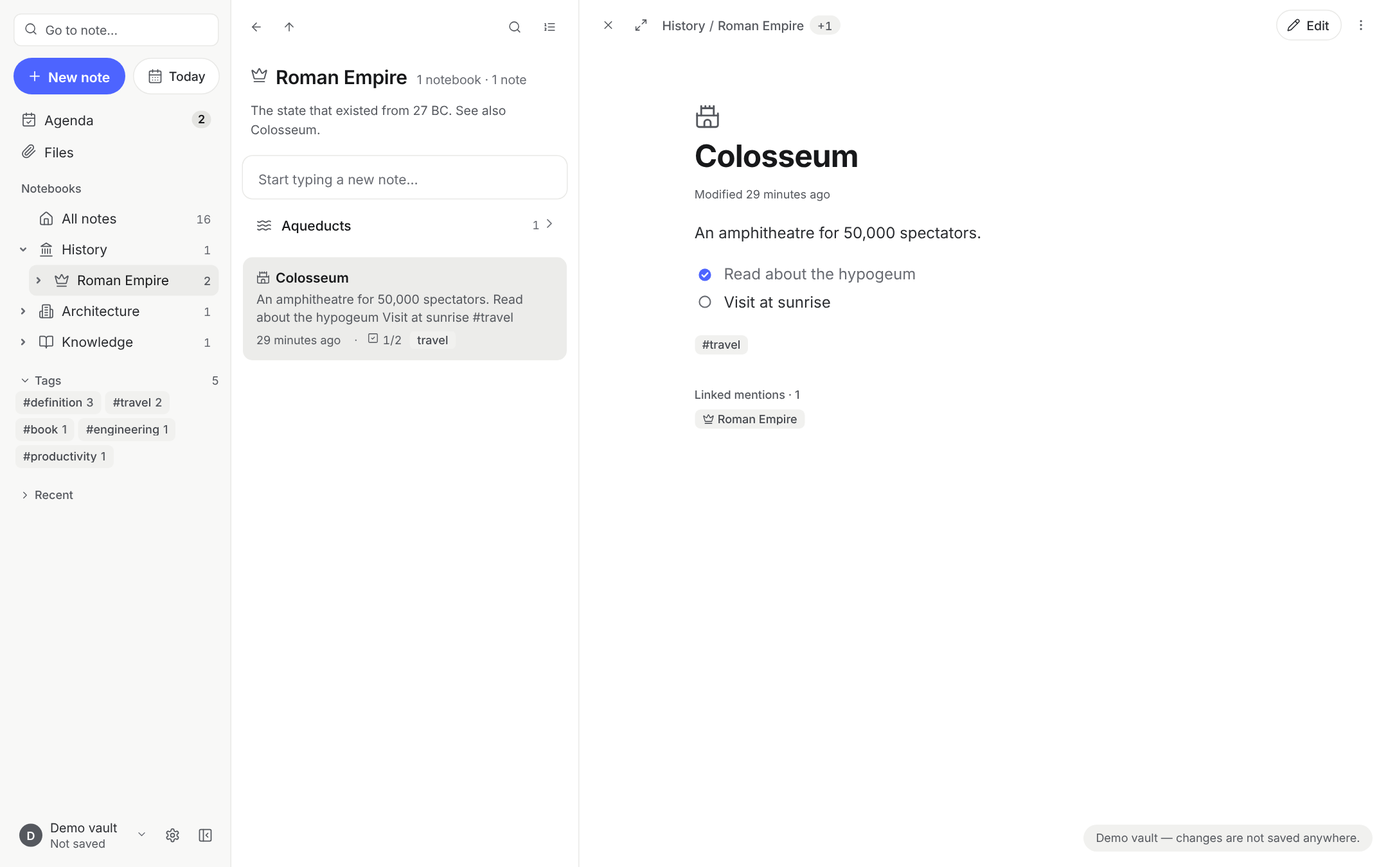
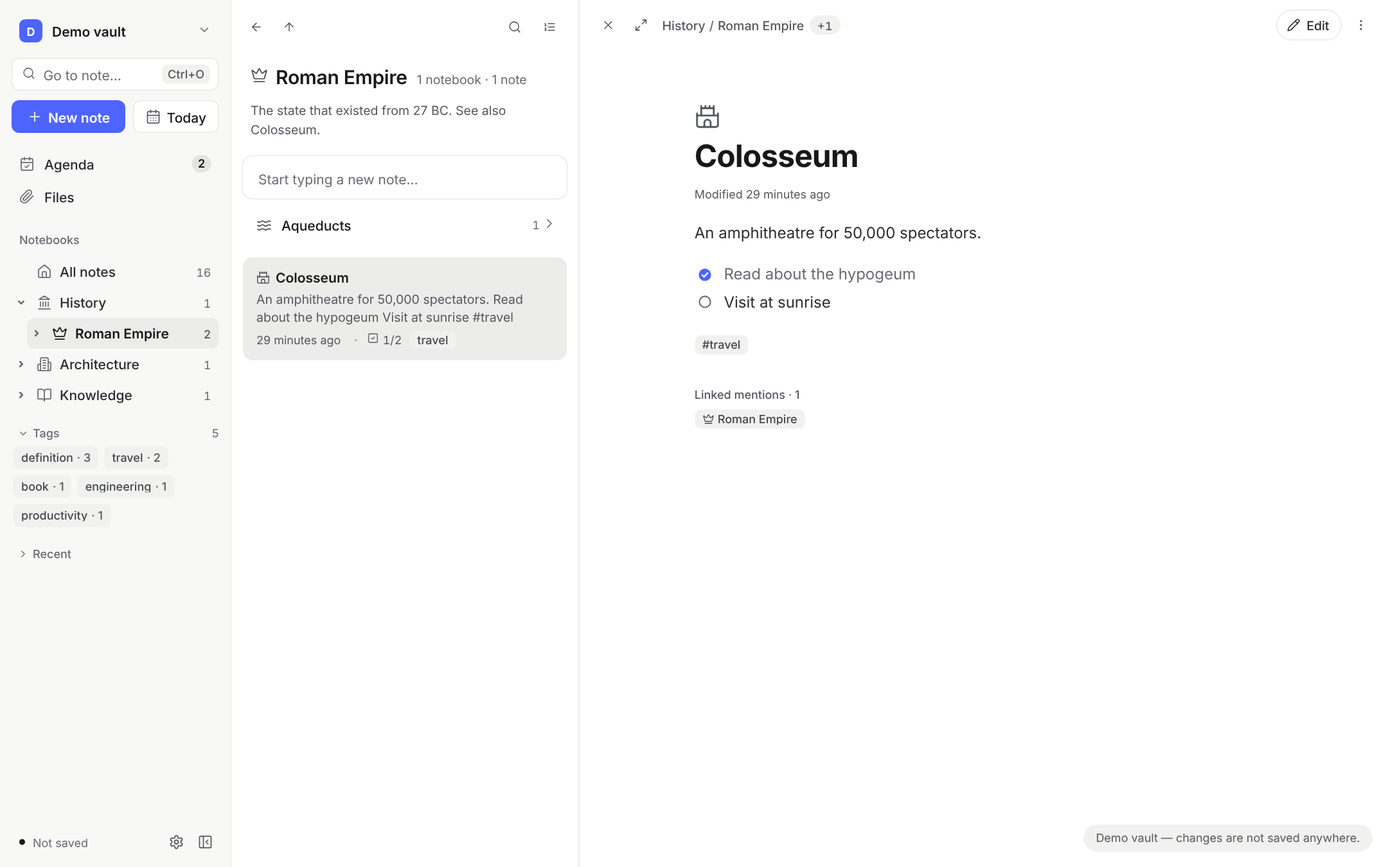
Restyle stage 4: the sidebar
The vault heads the sidebar: an accent square with its letter, its name
and its menu. Go to note shows its key (Ctrl+O, hidden without a
pointer); New note fills the row beside Today at 34px with the controls'
corner. Places and notebooks read at 500 with quiet icons, the current
row at 600 in the ink; section labels are faint. Tags read
"travel · 2". The vault's state (Not saved) moves to the foot with a
dot. The UI-27 test expects the vault first, then the three controls.

Claude-Session: https://claude.ai/code/session_01FMk1W3xjGAnUwDM3D7HQLZ

diff --git a/web/src/css/app.css b/web/src/css/app.css
@@ -15,64 +15,70 @@
 .sn-resizer.is-editor { grid-column: 4; grid-row: 2; flex-basis: 8px; }
 
 /* ---------- Sidebar */
-.sb-head { display: flex; flex-direction: column; gap: var(--sp-12); padding: var(--sp-14) var(--sp-12) var(--sp-10) var(--sp-14); }
-.sb-foot { display: flex; align-items: center; gap: var(--sp-2); padding: var(--sp-8) var(--sp-10) var(--sp-12) var(--sp-12); }
-.sb-foot button.sb-account { flex: 1 1 auto; min-width: 0; width: auto; }
-button.clickable-icon.sb-foot-btn { flex: none; width: 32px; height: var(--ctl-l); padding: 0; border-radius: var(--r-s); color: var(--muted); }
+/* the sidebar, top to bottom: the vault, Go to note, New note and Today; the app's places; the notebooks and tags;
+   the vault's state, settings and folding at the foot (restyle RS-8 to RS-19) */
+.sb-head { display: flex; flex-direction: column; gap: var(--sp-10); padding: var(--sp-14) var(--sp-12) var(--sp-16); }
+.sb-foot { display: flex; align-items: center; gap: var(--sp-2); padding: var(--sp-8) var(--sp-12) var(--sp-12); }
+.sb-status { flex: 1 1 auto; min-width: 0; display: flex; align-items: center; gap: var(--sp-8); padding-inline-start: var(--sp-8); color: var(--faint); font-size: var(--fs-sm); }
+.sb-status-text { min-width: 0; overflow: hidden; text-overflow: ellipsis; white-space: nowrap; }
+.sb-dot { flex: none; width: 6px; height: 6px; border-radius: 50%; background: var(--faint); }
+.sb-status.is-unsaved .sb-dot { background: var(--ink); }
+button.clickable-icon.sb-foot-btn { flex: none; width: var(--ctl-m); height: var(--ctl-m); padding: 0; border-radius: var(--r-s); color: var(--muted); }
 button.clickable-icon.sb-foot-btn:hover { background: var(--hover-bg); color: var(--fg); }
 .sb-foot-btn svg.svg-icon { width: var(--icon-m); height: var(--icon-m); }
 @media (max-width: 820px) { .sb-collapse { display: none; } } /* the drawer closes on the grey around it */
 /* The sidebar's places: the agenda, Files and sync, as rows like the tree's, each with its count or state at the right */
-.sb-nav { display: flex; flex-direction: column; gap: 1px; padding: 0 var(--sp-12) var(--sp-6) var(--sp-14); }
-.sb-nav button.sn-btn { justify-content: flex-start; gap: var(--sp-8); width: 100%; height: var(--ctl-l); padding: 0 var(--sp-8); border: 0; border-radius: var(--r-s);
-  background: transparent; color: var(--fg); font-size: var(--fs-md); font-weight: var(--fw-regular); }
+.sb-nav { display: flex; flex-direction: column; gap: var(--sp-2); padding: 0 var(--sp-12) var(--sp-12); }
+.sb-nav button.sn-btn { justify-content: flex-start; gap: var(--sp-10); width: 100%; height: var(--ctl-l); padding: 0 var(--sp-8); border: 0; border-radius: var(--r-s);
+  background: transparent; color: var(--fg); font-size: var(--fs-md); font-weight: var(--fw-medium); }
 .sb-nav button.sn-btn:hover { background: var(--hover-bg); }
-.sb-nav button.sn-btn.is-active { background: var(--sel); color: var(--ink); }
-.sb-nav button.sn-btn svg { width: var(--icon-m); height: var(--icon-m); color: var(--muted); }
+.sb-nav button.sn-btn.is-active { background: var(--sel); color: var(--ink); font-weight: var(--fw-semibold); }
+.sb-nav button.sn-btn svg { width: var(--icon-m); height: var(--icon-m); color: var(--faint); }
+.sb-nav button.sn-btn.is-active svg { color: var(--ink); }
 /* the sidebar's buttons keep their labels at every width (outweighing .sn-btn .wb-label in frame.css) */
 .sb-nav button.sn-btn .wb-label { display: inline; min-width: 0; overflow: hidden; text-overflow: ellipsis; }
 .sb-nav .wb-count { margin-left: auto; }
 .sb-nav button.sn-btn.wb-sync { max-width: none; }
 .sb-nav .wb-sync[hidden] { display: none; }
-/* Search fields share one look: 34px, white on the grey with a hairline border, a 14px icon, the accent ring on focus
+/* Search fields share one look: white with a hairline border, a 14px icon, the accent ring on focus
    (the sidebar's launcher, the board's filter, Files and Settings) */
 :is(button.sb-search, .sn-search, input.sn-set-search, input.fv-search) {
   height: var(--ctl-field); border: 1px solid var(--line); border-radius: var(--r-s); background: var(--win); color: var(--fg); font-size: var(--fs-ui);
 }
 :is(.sn-search:focus-within, input.sn-set-search:focus, input.fv-search:focus) { border-color: var(--accent); box-shadow: var(--ring); outline: none; }
-button.sb-search { justify-content: flex-start; gap: var(--sp-8); width: 100%; padding: 0 var(--sp-12) 0 var(--sp-10); font-weight: var(--fw-regular); cursor: text; }
-button.sb-search { color: var(--muted); }
-button.sb-search:hover { border-color: color-mix(in srgb, var(--faint) 55%, var(--line)); background: var(--win); }
+button.sb-search { justify-content: flex-start; gap: var(--sp-8); width: 100%; padding: 0 var(--sp-8) 0 var(--sp-10); color: var(--faint); font-size: var(--fs-md); font-weight: var(--fw-regular); cursor: text; }
+button.sb-search .wb-label { flex: 1 1 auto; min-width: 0; overflow: hidden; text-overflow: ellipsis; text-align: left; }
+button.sb-search:hover { border-color: var(--line-hover); background: var(--win); }
+/* the key that opens it, on a quiet plate; not on screens without a pointer to hover (UI-11) */
+.sb-key { flex: none; padding: 1px var(--sp-6); border-radius: var(--r-xs); background: var(--panel); color: var(--muted); font-family: var(--font-ui); font-size: var(--fs-sm); font-weight: var(--fw-medium); line-height: var(--lh-ui); }
+@media (hover: none) { .sb-key { display: none; } }
 button.sb-search svg, .sn-search-icon svg, .fv-search-icon svg { width: var(--icon-s); height: var(--icon-s); }
 .fv-search-wrap { position: relative; flex: 1 1 auto; min-width: 0; display: flex; }
 .fv-search-icon { position: absolute; left: 10px; top: 50%; transform: translateY(-50%); display: inline-flex; color: var(--muted); pointer-events: none; }
 input.fv-search { width: 100%; padding: 0 var(--sp-10) 0 30px; }
 .sb-actions { display: flex; align-items: center; gap: var(--sp-8); }
+/* New note fills the row, Today beside it: one height, the controls' corner */
 button.sn-btn.sb-new, :where(.sn-welcome-actions) button.sn-btn.is-primary {
-  height: 38px; padding: 0 var(--sp-16) 0 var(--sp-14); border-radius: var(--r-pill); background: var(--cta); color: var(--on-accent);
+  height: var(--ctl-field); padding: 0 var(--sp-12); border-radius: var(--r-s); background: var(--cta); color: var(--on-accent);
   font-size: var(--fs-md); font-weight: var(--fw-semibold); gap: var(--sp-6);
 }
+button.sn-btn.sb-new { flex: 1 1 auto; min-width: 0; justify-content: center; }
 button.sn-btn.sb-new:hover, :where(.sn-welcome-actions) button.sn-btn.is-primary:hover { background: var(--cta-hover); opacity: 1; }
 button.sn-btn.sb-new svg { width: var(--icon-m); height: var(--icon-m); }
-button.clickable-icon.sb-round { width: 38px; height: 38px; padding: 0; border: 1px solid var(--line); border-radius: 50%; background: var(--win); }
-/* Today, beside New note: a labelled button, quieter than New note */
-button.sn-btn.sb-today { height: 38px; padding: 0 var(--sp-14); border: 1px solid var(--line); border-radius: var(--r-pill); background: var(--win); color: var(--fg); font-weight: var(--fw-medium); }
+button.sn-btn.sb-today { flex: none; height: var(--ctl-field); padding: 0 var(--sp-12); border: 1px solid var(--line); border-radius: var(--r-s); background: var(--win); color: var(--ink); font-size: var(--fs-md); font-weight: var(--fw-medium); }
 button.sn-btn.sb-today:hover { background: var(--hover-bg); }
 button.sn-btn.sb-today svg { width: var(--icon-m); height: var(--icon-m); color: var(--muted); }
 .sb-today .wb-label { display: inline; }
 .sn-keys-or { display: inline-flex; align-items: center; gap: var(--sp-6); }
 .sn-keys-or .sn-or { color: var(--faint); font-size: var(--fs-sm); }
-button.clickable-icon.sb-round:hover { background: var(--hover-bg); color: var(--fg); }
-button.clickable-icon.sb-round svg { width: var(--icon-m); height: var(--icon-m); }
-button.sb-account { justify-content: flex-start; gap: var(--sp-8); width: 100%; height: 36px; padding: 0 var(--sp-8);
-  border: 0; border-radius: var(--r-s); background: transparent; font-weight: var(--fw-regular);
+/* the vault: a square of the accent with its first letter, its name, a chevron to its menu */
+button.sb-account { justify-content: flex-start; gap: var(--sp-10); width: 100%; height: 36px; padding: 0 var(--sp-8);
+  border: 0; border-radius: var(--r-s); background: transparent; color: var(--ink); font-size: var(--fs-md); font-weight: var(--fw-semibold);
 }
 button.sb-account:hover { background: var(--hover-bg); }
-.sb-avatar { flex: none; display: inline-flex; align-items: center; justify-content: center; width: 24px; height: 24px; border-radius: 50%; background: var(--muted); color: var(--win); font-size: var(--fs-sm); font-weight: var(--fw-semibold); }
-.sb-account-name { flex: 1; min-width: 0; display: flex; flex-direction: column; text-align: left; line-height: var(--lh-tight); }
-.sb-account-name > * { overflow: hidden; text-overflow: ellipsis; white-space: nowrap; }
-.sb-account-note { color: var(--muted); font-size: var(--fs-sm); font-weight: var(--fw-regular); }
-button.sb-account.has-note { height: 42px; }
+.sb-avatar { flex: none; display: inline-flex; align-items: center; justify-content: center; width: 24px; height: 24px; border-radius: var(--r-xs); background: var(--cta); color: var(--on-accent); font-size: var(--fs-sm); font-weight: var(--fw-bold); }
+.sb-account-name { flex: 1; min-width: 0; overflow: hidden; text-overflow: ellipsis; white-space: nowrap; text-align: left; }
+button.sb-account .wb-caret svg { width: var(--icon-s); height: var(--icon-s); color: var(--faint); }
 
 /* the tree's tools on its "Cards" heading: they show with the pointer over the sidebar or the focus in them; touch shows them always */
 .sn-tree-section.has-tools { display: flex; align-items: center; gap: var(--sp-4); min-height: 24px; }
@@ -83,18 +89,18 @@ button.sb-account.has-note { height: 42px; }
 .sn-sec-tools .clickable-icon:hover { background: var(--hover-bg); color: var(--fg); }
 .sn-sec-tools .clickable-icon svg { width: var(--icon-s); height: var(--icon-s); }
 .sn-tree-section, .sn-tree-section:first-child {
-  margin: var(--sp-16) 0 var(--sp-4); padding-left: var(--sp-8); font-size: var(--fs-sm); font-weight: var(--fw-medium); color: var(--muted);
+  margin: var(--sp-16) 0 var(--sp-6); padding-left: var(--sp-8); font-size: var(--fs-sm); font-weight: var(--fw-medium); color: var(--faint);
 }
 .sn-tree-section:first-child { margin-top: var(--sp-4); }
 .sn-outline .tree-item-self.sn-tree-row.is-active { background: var(--sel); }
 /* the keyboard's place in the tree: a ring on the item's row, not around its whole branch (spec A11Y-2) */
 .sn-aria-tree [role=treeitem] { outline: none; }
 .sn-aria-tree [role=treeitem]:focus-visible > .sn-tree-row { box-shadow: var(--ring-inset); }
-.sn-outline .tree-item-self.sn-tree-row.is-active .sn-tree-label { color: var(--ink); }
+.sn-outline .tree-item-self.sn-tree-row.is-active :is(.sn-tree-label, .sn-tree-icon) { color: var(--ink); }
+.sn-outline .tree-item-self.sn-tree-row.is-active .sn-tree-label { font-weight: var(--fw-semibold); }
 /* the notebook the open note sits in, when the list beside it shows another place (and the open note's Recent row): a quiet mark, not a second selection */
 .sn-outline .sn-tree-row:is(.is-holding, .is-editing):not(.is-active) :is(.sn-tree-label, .sn-tree-icon) { color: var(--ink); }
-.sn-outline .sn-tree-row:is(.is-holding, .is-editing):not(.is-active) .sn-tree-label { font-weight: var(--fw-medium); }
-.sn-tree-row .sn-tree-label { font-weight: var(--fw-regular); }
+.sn-tree-row .sn-tree-label { font-weight: var(--fw-medium); }
 .sn-tree-icon svg { width: var(--icon-m); height: var(--icon-m); }
 .tree-item-flair { font-size: var(--fs-sm); color: var(--faint); }
 /* on a hovered or current row's grey, the counts and times step up to --muted to stay readable */

diff --git a/web/src/js/ui/shell.js b/web/src/js/ui/shell.js
@@ -168,22 +168,25 @@ function renderAll() {
   // there is no top bar: search, the new-card button, the agenda, Files, sync, settings and the vault live in the sidebar,
   // and each view's own bar opens the sidebar when it is closed (sideToggle)
   // finding a note by its name; searching the text is the list's own (its magnifier, Ctrl+F)
-  const search = h("button", { cls: "sb-search", type: "button", title: t("goToNote") + " · Ctrl+O" }, ic("", "search"), h("span", { text: t("goToNote") }));
+  const search = h("button", { cls: "sb-search", type: "button", title: t("goToNote") + " · " + keyText("Ctrl+O") }, ic("", "search"), h("span", { cls: "wb-label", text: t("goToNote") }),
+    h("kbd", { cls: "sb-key", "aria-hidden": "true", text: keyText("Ctrl+O") }));
   search.addEventListener("click", () => quickOpen());
-  const sideHead = h("div", { cls: "sb-head" }, search,
-    h("div", { cls: "sb-actions" },
-      wbBtn("plus", t("newShort"), newCard, "sb-new"),
-      // today's note, by name; the command palette is Ctrl+P and the vault's menu below
-      wbBtn("calendar-days", t("todayShort"), () => openToday(), "sb-today")));
   // a demo or a copy says so under its name for as long as it is open (the toast shows it only once)
   const standing = defaultEcho();
   const note = vault.fs.kind === "demo" ? t("demoShort") : vault.fs.kind === "copy" ? t("copyShort") : "";
-  const account = h("button", { cls: "sb-account" + (note ? " has-note" : ""), type: "button", title: standing ? vault.fs.name + " — " + standing : vault.fs.name },
+  // the vault heads the sidebar (restyle RS-8); its state ("Not saved") sits at the foot (RS-18)
+  const account = h("button", { cls: "sb-account", type: "button", title: standing ? vault.fs.name + " — " + standing : vault.fs.name },
     h("span", { cls: "sb-avatar", text: (vault.fs.name || "S").trim().charAt(0).toUpperCase() }),
-    h("span", { cls: "sb-account-name" }, h("span", { text: vault.fs.name }), note ? h("small", { cls: "sb-account-note", text: note }) : null), ic("wb-caret", "chevron-down"));
+    h("span", { cls: "sb-account-name", text: vault.fs.name }), ic("wb-caret", "chevron-down"));
   account.addEventListener("click", vaultMenu);
+  const sideHead = h("div", { cls: "sb-head" }, account, search,
+    h("div", { cls: "sb-actions" },
+      wbBtn("plus", t("newShort"), newCard, "sb-new"),
+      // today's note, by name; the command palette is Ctrl+P and the vault's menu above
+      wbBtn("calendar-days", t("todayShort"), () => openToday(), "sb-today")));
   const sideNav = h("nav", { cls: "sb-nav", "aria-label": t("tabbar") }, tasksButton(), filesButton(), syncButton());
-  const foot = h("div", { cls: "sb-foot" }, account,
+  const status = h("div", { cls: "sb-status" + (note ? " is-unsaved" : "") }, note ? h("span", { cls: "sb-dot", "aria-hidden": "true" }) : null, note ? h("span", { cls: "sb-status-text", text: note }) : null);
+  const foot = h("div", { cls: "sb-foot" }, status,
     iconBtn("settings", t("settings"), () => settingsModal(), "sb-foot-btn"),
     iconBtn("panel-left-close", t("toggleSidebar"), () => setSide(false), "sb-foot-btn sb-collapse"));
   const side = h("div", { cls: "sn-side" }, sideHead, sideNav, h("div", { cls: "sn-outline", id: "tree" }), foot);

diff --git a/web/src/css/board.css b/web/src/css/board.css
@@ -81,7 +81,7 @@
 /* Branch blocks when grouped */
 
 /* ---------- Sidebar tree */
-.sn-tree { flex: 1 1 auto; overflow-y: auto; padding: 0 var(--sp-12) var(--sp-16) var(--sp-14); }
+.sn-tree { flex: 1 1 auto; overflow-y: auto; padding: 0 var(--sp-12) var(--sp-16); }
 .sn-tree-empty { padding: var(--sp-12); font-size: var(--fs-ui); color: var(--muted); }
 .sn-outline .tree-item-self.sn-tree-row { align-items: center; user-select: none; min-height: 32px; padding: var(--sp-4) var(--sp-8) var(--sp-4) var(--sp-2); border-radius: var(--r-s); font-size: var(--fs-md); gap: var(--sp-8); }
 .sn-outline .sn-tree-toggle {
@@ -92,7 +92,7 @@
 .sn-outline .sn-tree-toggle:hover { color: var(--muted); }
 .sn-outline .sn-tree-toggle svg { width: 10px; height: 10px; stroke-width: 4px; transition: transform var(--dur-1) var(--ease); }
 .sn-outline .sn-tree-row:not(.is-open) .sn-tree-toggle svg { transform: rotate(-90deg); }
-.sn-tree-icon { flex: 0 0 auto; display: inline-flex; color: var(--muted); }
+.sn-tree-icon { flex: 0 0 auto; display: inline-flex; color: var(--faint); }
 .sn-outline .sn-tree-label { overflow: hidden; text-overflow: ellipsis; white-space: nowrap; }
 .sn-outline .tree-item-flair-outer { flex: 0 0 auto; }
 .sn-tree-count { font-variant-numeric: tabular-nums; }

diff --git a/web/src/css/writing.css b/web/src/css/writing.css
@@ -88,8 +88,9 @@ button.sn-table-add-row:hover, button.sn-table-add-col:hover { background: color
 .sn-sec-caret svg { width: var(--icon-xs); height: var(--icon-xs); transition: transform var(--dur-1) var(--ease); }
 .sn-tree-section.is-toggle:not(.is-open) .sn-sec-caret svg { transform: rotate(-90deg); }
 .sn-sec-count { margin-left: auto; font-weight: var(--fw-regular); }
-.sn-tag-cloud { display: flex; flex-wrap: wrap; gap: var(--sp-4); padding: 0 var(--sp-2) var(--sp-4); }
-.sn-tag-cloud .sn-chip .n { color: var(--muted); font-size: var(--fs-sm); } /* on the pill's --panel, where --faint is too light */
+/* the sidebar's tags: "travel · 2" on a plain chip (restyle RS-17) */
+.sn-tag-cloud { display: flex; flex-wrap: wrap; gap: var(--sp-6); padding: 0 var(--sp-2) var(--sp-4); }
+.sn-tag-cloud .sn-chip .n { color: var(--muted); font-size: var(--fs-sm); } /* on the chip's --panel, where --faint is too light */
 
 /* Unlinked mentions */
 .sn-unlinked { display: flex; flex-direction: column; gap: var(--sp-4); margin-bottom: var(--sp-12); }

diff --git a/web/src/js/ui/completion.js b/web/src/js/ui/completion.js
@@ -412,7 +412,7 @@ export function tagsSection(box) {
   const wrap = h("div", { cls: "sn-tag-cloud" });
   for (const [tg, n] of [...counts].sort((a, b) => b[1] - a[1] || a[0].localeCompare(b[0])).slice(0, 40)) {
     const on = board.tagView === tg;
-    const b = h("button", { cls: "sn-chip" + (on ? " is-accent" : ""), type: "button", title: `#${tg} · ${n}` }, h("span", { text: "#" + tg }), h("span", { cls: "n", text: String(n) }));
+    const b = h("button", { cls: "sn-chip" + (on ? " is-accent" : ""), type: "button", title: `#${tg} · ${n}` }, h("span", { text: tg }), h("span", { cls: "n", text: "· " + n }));
     b.addEventListener("click", () => { if (on) goBack(); else openTagView(tg); });
     wrap.append(b);
   }

diff --git a/docs/restyle-specification.md b/docs/restyle-specification.md
@@ -144,18 +144,18 @@
 
 | № | Требование | Проверка | Статус |
 |---|---|---|---|
-| RS-8 | Строка хранилища (`button.sb-account`, `shell.js:182`) переезжает из низа панели в её верх, первой в `.sb-head`. Состав: аватар, название (14 px, 600, `--ink`), стрелка `chevron-down` 14 px `--faint`. Высота 36 px, поля 6 и 8 px, угол `--r-s`. Меню хранилища открывается как сейчас. | Снимок; меню открывается; пункт «Commands…» на месте (UI-27). | |
-| RS-9 | Аватар (`.sb-avatar`): квадрат 24 px с углом `--r-xs`, фон `--cta`, буква `--on-accent`, 12 px, 700. Сейчас — серый круг. | Замер. | |
-| RS-10 | Поле перехода (`button.sb-search`): высота `--ctl-field`, фон `--win`, рамка `--line`, угол `--r-s`, текст `--faint` 14 px. Справа — подпись сочетания клавиш, которым поле открывается на самом деле (в макете условное «Ctrl K»): 12 px, 500, плашка `--panel`, угол `--r-xs`, поля 1 и 6 px. На устройствах без наведения подписи нет (UI-11). | Подпись совпадает с сочетанием из настроек клавиш; при `hover: none` её нет. | |
-| RS-11 | «New note» (`button.sn-btn.sb-new`): высота `--ctl-field`, угол `--r-s` (сейчас пилюля 38 px), фон `--cta`, текст `--on-accent` 14 px 600, значок 16 px; занимает всё место слева от «Today». «Today» (`button.sn-btn.sb-today`): та же высота и угол, фон `--win`, рамка `--line`, текст `--ink` 500. Между ними 8 px. | Замер высоты и угла. | |
-| RS-12 | UI-27 уточняется: над «Notebooks» три действия с подписями (поле перехода, «New note», «Today») и строка хранилища, которая считается заголовком панели. | `tests/navigation.test.mjs` обновлён: три кнопки действий плюс строка хранилища. | |
-| RS-13 | Разделы приложения (`.sb-nav button.sn-btn`): высота 32 px, 14 px, 500 (сейчас 400), значок 16 px `--faint`; между строками 2 px. Текущий: фон `--sel`, 600, `--ink`, значок `--ink`. Под указателем — `--hover-bg`. | Замер насыщенности и фона. | |
+| RS-8 | Строка хранилища (`button.sb-account`, `shell.js:182`) переезжает из низа панели в её верх, первой в `.sb-head`. Состав: аватар, название (14 px, 600, `--ink`), стрелка `chevron-down` 14 px `--faint`. Высота 36 px, поля 6 и 8 px, угол `--r-s`. Меню хранилища открывается как сейчас. Сделано (`ui/shell.js`, `app.css`): примечание «Not saved» ушло из строки хранилища в низ панели. | Снимок; меню открывается; пункт «Commands…» на месте (UI-27). | ✅ |
+| RS-9 | Аватар (`.sb-avatar`): квадрат 24 px с углом `--r-xs`, фон `--cta`, буква `--on-accent`, 12 px, 700. Сейчас — серый круг. Сделано. | Замер. | ✅ |
+| RS-10 | Поле перехода (`button.sb-search`): высота `--ctl-field`, фон `--win`, рамка `--line`, угол `--r-s`, текст `--faint` 14 px. Справа — подпись сочетания клавиш, которым поле открывается на самом деле (в макете условное «Ctrl K»): 12 px, 500, плашка `--panel`, угол `--r-xs`, поля 1 и 6 px. На устройствах без наведения подписи нет (UI-11). Сделано: подпись — `Ctrl+O` (на Mac `⌘O`, через `keyText`), то же сочетание, что в подсказке поля и в настройках клавиш; при `hover: none` скрыта. Текст поля — `.wb-label`. | Подпись совпадает с сочетанием из настроек клавиш; при `hover: none` её нет. | ✅ |
+| RS-11 | «New note» (`button.sn-btn.sb-new`): высота `--ctl-field`, угол `--r-s` (сейчас пилюля 38 px), фон `--cta`, текст `--on-accent` 14 px 600, значок 16 px; занимает всё место слева от «Today». «Today» (`button.sn-btn.sb-today`): та же высота и угол, фон `--win`, рамка `--line`, текст `--ink` 500. Между ними 8 px. Сделано; у кнопки главного действия на экране приветствия высота и угол свои, как раньше. | Замер высоты и угла. | ✅ |
+| RS-12 | UI-27 уточняется: над «Notebooks» три действия с подписями (поле перехода, «New note», «Today») и строка хранилища, которая считается заголовком панели. Сделано: тест в `tests/navigation.test.mjs` ждёт строку хранилища первой, затем три подписи (берёт текст `.wb-label`, без подписи клавиш). | `tests/navigation.test.mjs` обновлён: три кнопки действий плюс строка хранилища. | ✅ |
+| RS-13 | Разделы приложения (`.sb-nav button.sn-btn`): высота 32 px, 14 px, 500 (сейчас 400), значок 16 px `--faint`; между строками 2 px. Текущий: фон `--sel`, 600, `--ink`, значок `--ink`. Под указателем — `--hover-bg`. Сделано. | Замер насыщенности и фона. | ✅ |
 | RS-14 | Счётчик повестки (`.wb-tasks .wb-count`): высота 18 px, минимальная ширина 18 px, поля 0 и 5 px, пилюля, фон `--panel-strong`, текст `--ink` 12 px 600. Тона `is-today` и `is-overdue` (`agenda.css:5–6`) рисуются одинаково, без цвета; различие остаётся в подсказке `title`. Сделано вместе со счётчиком «Overdue» (`.ag-over-n`): одно правило в `agenda.css`. Высота 18 px, поля 6 px по шкале вместо 5. | Замер цвета в обоих состояниях. | ✅ |
-| RS-15 | Подписи разделов (`.sn-tree-section`): 12 px, 500, `--faint`, отступ слева 8 px, 16 px над и 6 px под. Кнопки раздела (`.sn-sec-tools`) ведут себя как сейчас. | Снимок. | |
-| RS-16 | Строки дерева (`.sn-tree-row`): высота 32 px, 14 px, 500 (сейчас 400, `app.css:101`), значок 16 px `--faint`, счётчик 12 px `--faint`. Текущая: `--sel`, 600, `--ink`, значок `--ink`. Стрелки раскрытия и направляющие вложенности остаются. | Замер; A11Y-1 и A11Y-2 проходят. | |
-| RS-17 | Теги в боковой панели (`completion.js:408` и далее): чип 24 px высотой, поля 0 и 8 px, угол `--r-xs`, фон `--panel`, текст `--tag` 12 px 500. Подпись — «название · число» без решётки («travel · 2», сейчас «#travel 2»). Между чипами 6 px. | Текст и замер чипа. | |
-| RS-18 | Низ панели (`.sb-foot`): точка состояния 6 px (круг, `--faint`; при несохранённых изменениях — `--ink`), текст состояния 12 px `--faint`, затем кнопки настроек и сворачивания панели 28 px (сейчас 32) с прежними значками. Верхней линии у низа нет. Примечание хранилища («Not saved», сейчас вторая строка под названием, `.sb-account-note`) показывается здесь. | Снимок; обе кнопки работают. | |
-| RS-19 | Поля панели: 14 px сверху, 12 px по бокам; между блоками 16 px. | Замер. | |
+| RS-15 | Подписи разделов (`.sn-tree-section`): 12 px, 500, `--faint`, отступ слева 8 px, 16 px над и 6 px под. Кнопки раздела (`.sn-sec-tools`) ведут себя как сейчас. Сделано. | Снимок. | ✅ |
+| RS-16 | Строки дерева (`.sn-tree-row`): высота 32 px, 14 px, 500 (сейчас 400, `app.css:101`), значок 16 px `--faint`, счётчик 12 px `--faint`. Текущая: `--sel`, 600, `--ink`, значок `--ink`. Стрелки раскрытия и направляющие вложенности остаются. Сделано: значок `--faint`, у текущей строки значок и подпись `--ink`, подпись 600; обычные строки 500. | Замер; A11Y-1 и A11Y-2 проходят. | ✅ |
+| RS-17 | Теги в боковой панели (`completion.js:408` и далее): чип 24 px высотой, поля 0 и 8 px, угол `--r-xs`, фон `--panel`, текст `--tag` 12 px 500. Подпись — «название · число» без решётки («travel · 2», сейчас «#travel 2»). Между чипами 6 px. Сделано (`completion.js`, `writing.css`). | Текст и замер чипа. | ✅ |
+| RS-18 | Низ панели (`.sb-foot`): точка состояния 6 px (круг, `--faint`; при несохранённых изменениях — `--ink`), текст состояния 12 px `--faint`, затем кнопки настроек и сворачивания панели 28 px (сейчас 32) с прежними значками. Верхней линии у низа нет. Примечание хранилища («Not saved», сейчас вторая строка под названием, `.sb-account-note`) показывается здесь. Сделано: точка и текст показываются, когда хранилище — демо или копия; у обычного хранилища в низу только кнопки. Точка `--ink`, потому что такое хранилище не сохраняется. | Снимок; обе кнопки работают. | ✅ |
+| RS-19 | Поля панели: 14 px сверху, 12 px по бокам; между блоками 16 px. Сделано: голова 14 / 12 / 16 px, разделы приложения 12 px снизу, дерево 12 px по бокам. | Замер. | ✅ |
 
 ## 7. Список
 
